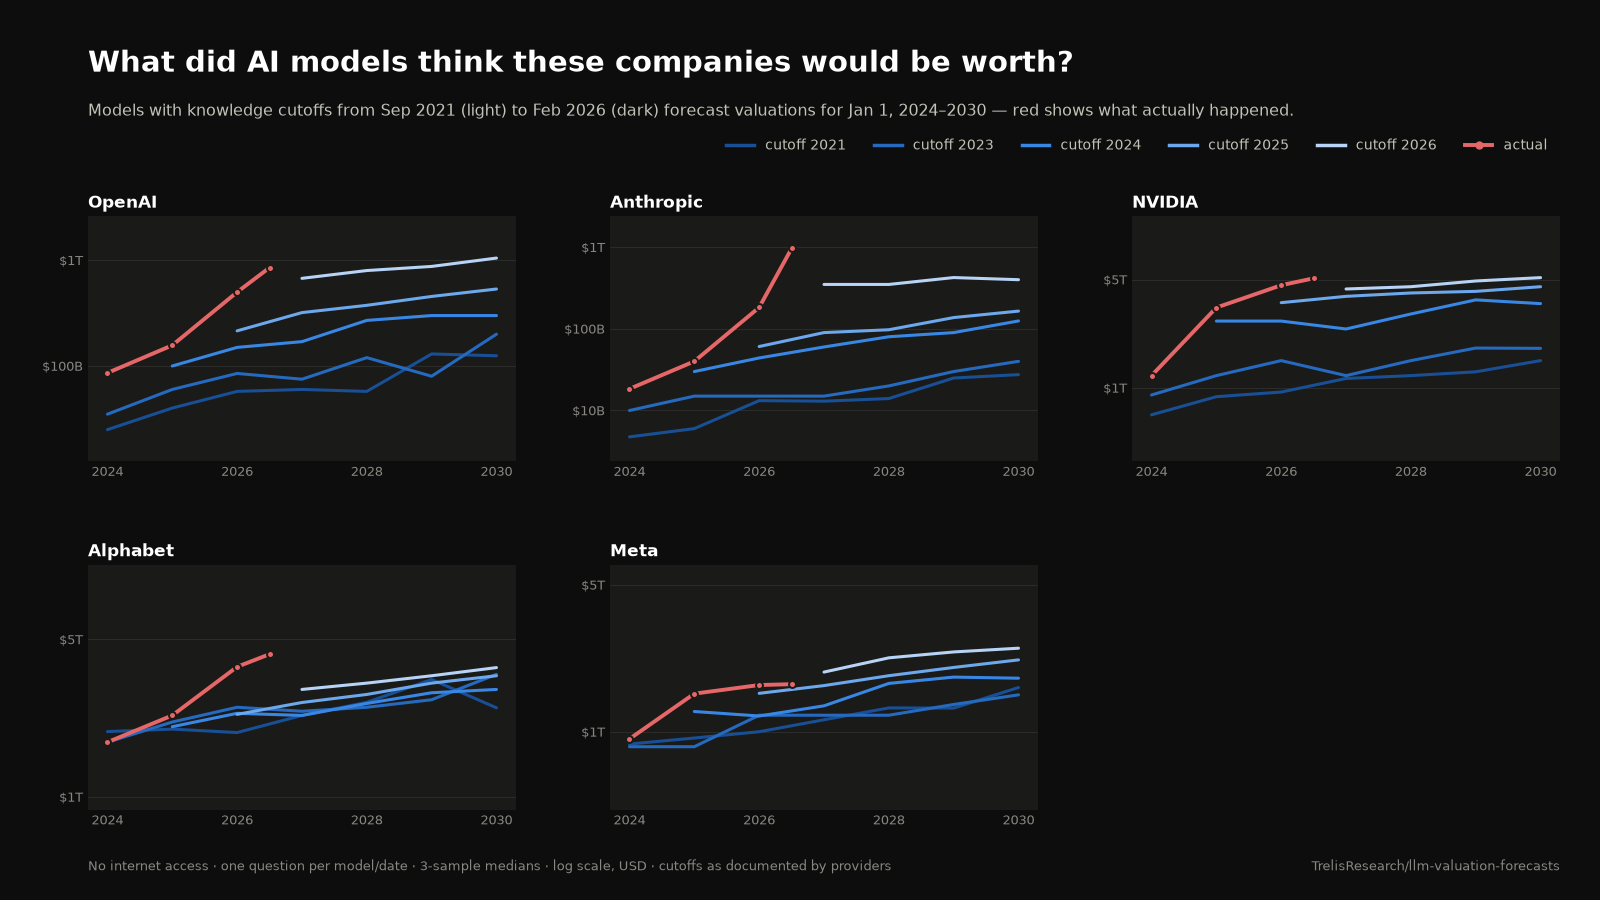
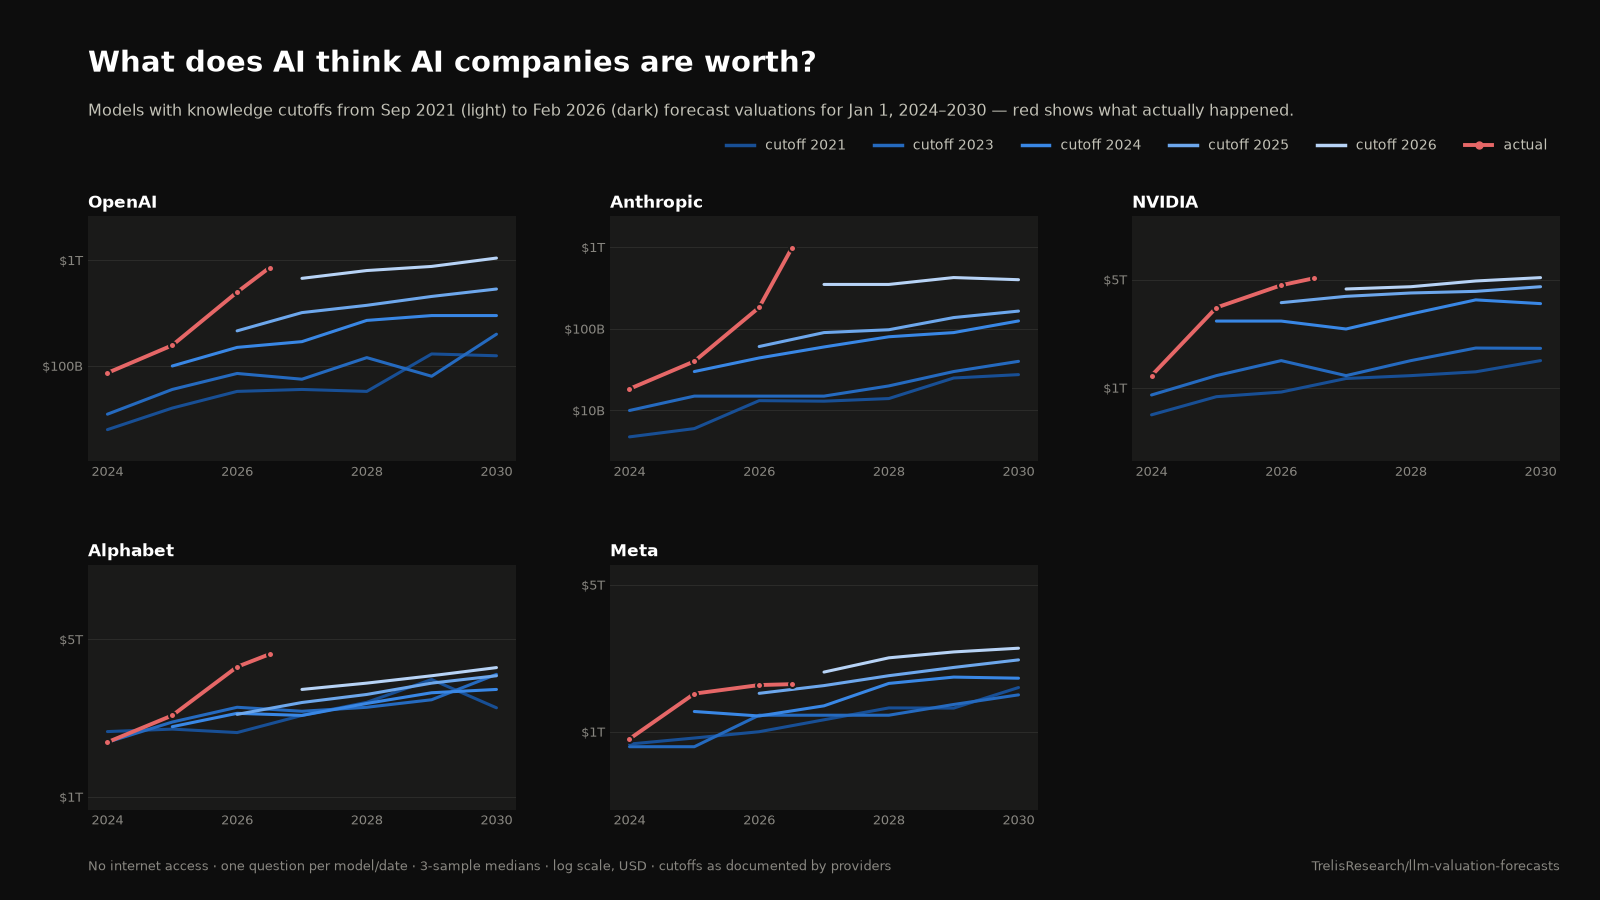
Retitle: What does AI think AI companies are worth?

Changed region(s): [[0.125, 0.0311, 0.6875, 0.0933]]

diff --git a/site/index.html b/site/index.html
@@ -3,7 +3,7 @@
 <head>
 <meta charset="utf-8">
 <meta name="viewport" content="width=device-width, initial-scale=1">
-<title>LLM Valuation Forecasts by Knowledge Cutoff</title>
+<title>What does AI think AI companies are worth?</title>
 <meta name="description" content="What AI models of different training vintages think OpenAI, Anthropic, NVIDIA, Alphabet and Meta are worth — and how those beliefs evolved as knowledge cutoffs advanced.">
 <style>
 :root { color-scheme: light dark; }
@@ -75,7 +75,7 @@ footer a { color: var(--text-secondary); }
 <div class="viz-root">
 <div class="wrap">
   <header>
-    <h1>What do AI models think these companies are worth?</h1>
+    <h1>What does AI think AI companies are worth?</h1>
     <p class="sub">We asked 26 AI models — with knowledge cutoffs from September 2021 to
     February 2026, and no internet access — what OpenAI, Anthropic, NVIDIA, Alphabet and
     Meta would be worth on each January 1 from 2024 to 2030. The story in one line:

diff --git a/analysis/make_assets.py b/analysis/make_assets.py
@@ -140,7 +140,7 @@ def legend_on(fig, t):
                labelcolor=t["sub"])
 
 
-TITLE = "What did AI models think these companies would be worth?"
+TITLE = "What does AI think AI companies are worth?"
 SUBTITLE = ("Models with knowledge cutoffs from Sep 2021 (light) to Feb 2026 (dark) forecast "
             "valuations for Jan 1, 2024–2030 — red shows what actually happened.")
 

diff --git a/POST.md b/POST.md
@@ -6,6 +6,8 @@ Assets (in `assets/`): attach per tweet as noted.
 
 ## Tweet 1 — attach: headline_reveal.mp4 (or headline_light.png)
 
+What does AI think AI companies are worth?
+
 I asked 26 AI models — knowledge cutoffs from Sept 2021 to Feb 2026, no internet access — what OpenAI, Anthropic, NVIDIA, Google & Meta would be worth every Jan 1 through 2030.
 
 Blue = model forecasts by vintage (darker = later cutoff). Red = what actually happened.